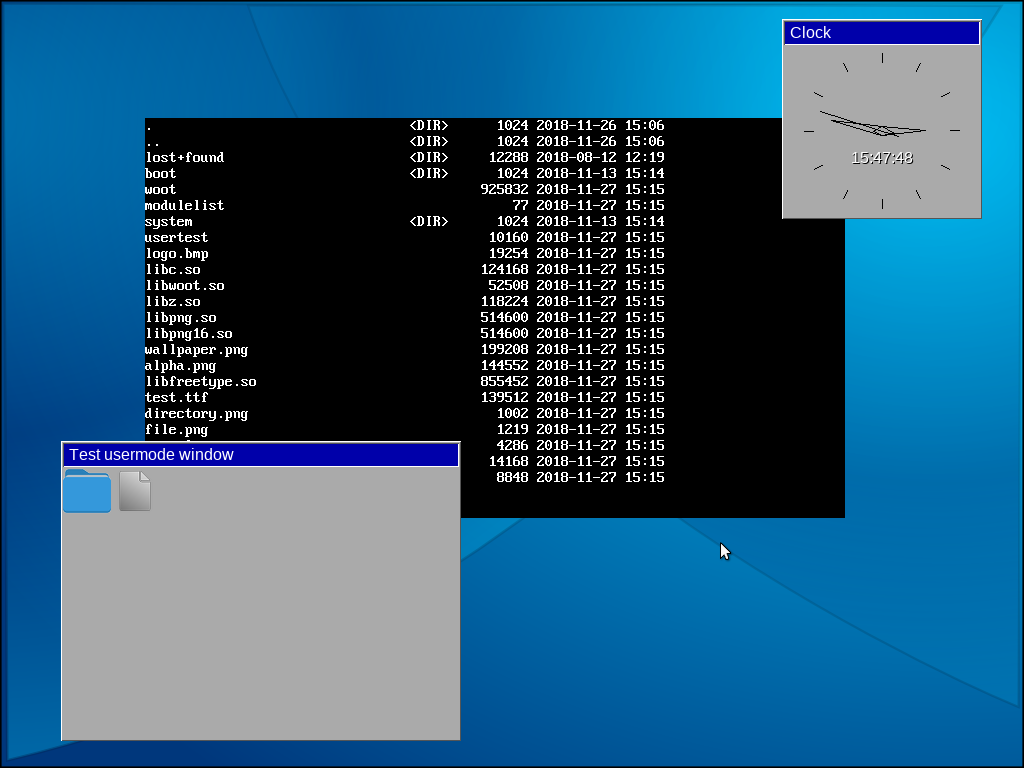
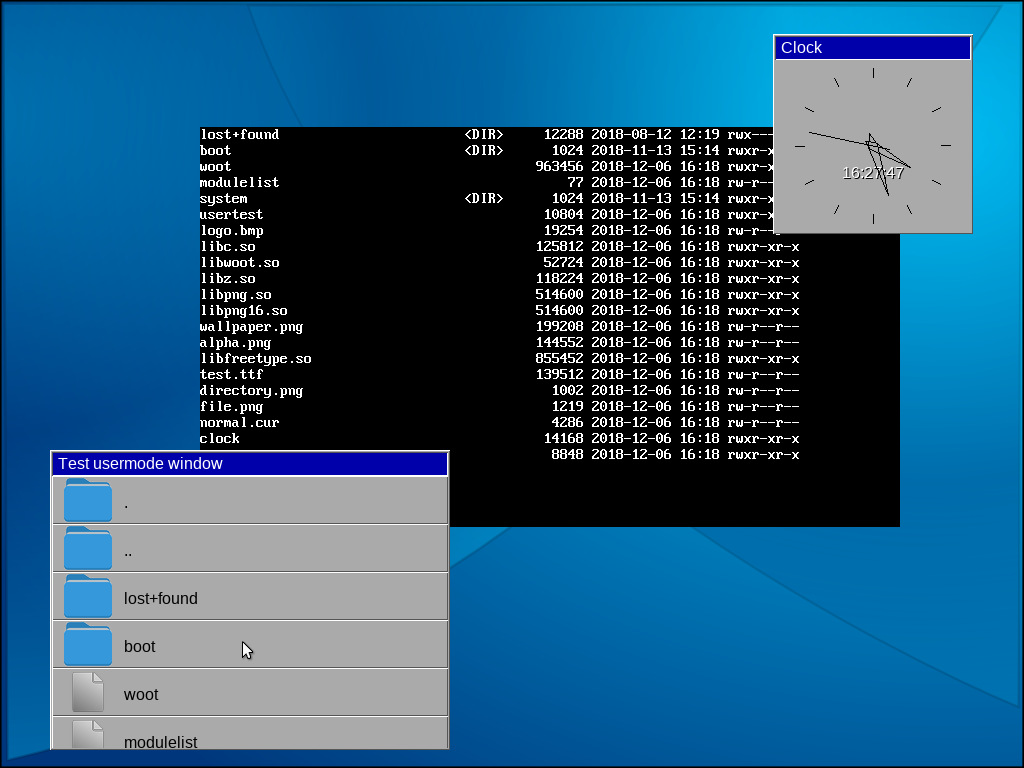
fixed backwards blitting bug and updated screenshot

diff --git a/usertest/main.c b/usertest/main.c
@@ -12,6 +12,7 @@
 #include FT_FREETYPE_H
 #include FT_ERRORS_H
 
+#include <woot/font.h>
 #include <woot/pixmap.h>
 #include <woot/wm.h>
 #include <zlib.h>
@@ -62,18 +63,25 @@ int main(int argc, char *argv[])
             malloc_stats();
         else if(!strcmp(_argv[0], "dir"))
         {
-            /*pmAlphaBlit(spm, dirIcon, 0, 0, 0, 0, dirIcon->Width, dirIcon->Height);
-            pmAlphaBlit(spm, fileIcon, 0, 0, 48, 0, fileIcon->Width, fileIcon->Height);
-            wmInvalidateRectangle(wnd, &wnd->ClientRectangle);
-            wmUpdateWindow(wnd);*/
             char *name = _argc >= 2 ? _argv[1] : ".";
             DIR *dir = opendir(name);
             if(!dir) printf("couldn't open directory %s\n", name);
             else
             {
                 struct dirent *de;
+                int i = 0;
                 while((de = readdir(dir)))
-                    printf("%s\n", de->d_name);
+                {
+                    int isDir = de->d_type == DT_DIR;
+                    struct pmPixMap *icon = isDir ? dirIcon : fileIcon;
+                    pmAlphaBlit(spm, icon, 0, 0, 12, i * 48, icon->Width, icon->Height);
+                    fntDrawString(wmGetDefaultFont(), spm, 72, i * 48 + 32, de->d_name, pmColorBlack);
+                    pmDrawFrame(spm, 0, i * 48, spm->Width, 48, 0);
+                    //printf("%-16s %s\n", de->d_name, isDir ? "<DIR>" : "     ");
+                    ++i;
+                }
+                wmInvalidateRectangle(wnd, &wnd->ClientRectangle);
+                wmUpdateWindow(wnd);
             }
         }
         else if(!strcmp(_argv[0], "date"))

diff --git a/libwoot/pixmap.c b/libwoot/pixmap.c
@@ -471,9 +471,11 @@ void pmBlit(struct pmPixMap *dst, struct pmPixMap *src, int sx, int sy, int x, i
     }
     else
     {   // backward
-        for(int Y = y2 - 1, sY = sy2 - 1; Y >= y && sY >= sy; --Y, --sY)
+        int sx2b = sx + w + (x2 - (x + w));
+        int sy2b = sy + h + (y2 - (y + h));
+        for(int Y = y2 - 1, sY = sy2b - 1; Y >= y && sY >= sy; --Y, --sY)
         {
-            for(int X = x2 - 1, sX = sx2 - 1; X >= x && sX >= sx; --X, --sX)
+            for(int X = x2 - 1, sX = sx2b - 1; X >= x && sX >= sx; --X, --sX)
                 pmSetPixel(dst, X, Y, pmGetPixel(src, sX, sY));
         }
     }
@@ -554,9 +556,11 @@ void pmAlphaBlit(struct pmPixMap *dst, struct pmPixMap *src, int sx, int sy, int
     }
     else
     {   // backward
-        for(int Y = y2 - 1, sY = sy2 - 1; Y >= y && sY >= sy; --Y, --sY)
+        int sx2b = sx + w + (x2 - (x + w));
+        int sy2b = sy + h + (y2 - (y + h));
+        for(int Y = y2 - 1, sY = sy2b - 1; Y >= y && sY >= sy; --Y, --sY)
         {
-            for(int X = x2 - 1, sX = sx2 - 1; X >= x && sX >= sx; --X, --sX)
+            for(int X = x2 - 1, sX = sx2b - 1; X >= x && sX >= sx; --X, --sX)
                 pmSetPixel(dst, X, Y, pmBlendPixel(pmGetPixel(dst, X, Y), pmGetPixel(src, sX, sY)));
         }
     }

diff --git a/kernel/syscalls.cpp b/kernel/syscalls.cpp
@@ -23,9 +23,20 @@
 #include <../libc/include/time.h>
 
 #define NAME_MAX 255
+
+#define DT_UNKNOWN 0
+#define DT_REG 1
+#define DT_DIR 2
+#define DT_FIFO 3
+#define DT_SOCK 4
+#define DT_CHR 5
+#define DT_BLK 6
+#define DT_LNK 7
+
 struct dirent
 {
     int d_ino;
+    unsigned char d_type;
     char d_name[NAME_MAX + 1];
 };
 
@@ -242,10 +253,12 @@ long SysCalls::sys_readdir(long *args) // 89
     if(!f) return -EBADF;
     struct dirent *dent = (struct dirent *)args[2];
     dent->d_ino = -1;
+    dent->d_type = DT_UNKNOWN;
     dent->d_name[0] = 0;
     DirectoryEntry *de = f->ReadDir();
     if(!de) return 0;
     dent->d_ino = de->INode;
+    dent->d_type = S_ISDIR(de->Mode) ? DT_DIR : DT_REG;
     strncpy(dent->d_name, de->Name, sizeof(dent->d_name));
     delete de;
     return 0;

diff --git a/kernel/pixmap.cpp b/kernel/pixmap.cpp
@@ -495,9 +495,11 @@ void PixMap::AlphaBlit(PixMap *src, int sx, int sy, int x, int y, int w, int h)
     }
     else
     {   // backward
-        for(int Y = y2 - 1, sY = sy2 - 1; Y >= y && sY >= sy; --Y, --sY)
+        int sx2b = sx + w + (x2 - (x + w));
+        int sy2b = sy + h + (y2 - (y + h));
+        for(int Y = y2 - 1, sY = sy2b - 1; Y >= y && sY >= sy; --Y, --sY)
         {
-            for(int X = x2 - 1, sX = sx2 - 1; X >= x && sX >= sx; --X, --sX)
+            for(int X = x2 - 1, sX = sx2b - 1; X >= x && sX >= sx; --X, --sX)
                 SetPixel(X, Y, GetPixel(X, Y).Blend(src->GetPixel(sX, sY)));
         }
     }

diff --git a/libc/include/dirent.h b/libc/include/dirent.h
@@ -4,6 +4,17 @@
 #include <limits.h>
 #include <sys/types.h>
 
+#define _DIRENT_HAVE_D_TYPE 1
+
+#define DT_UNKNOWN 0
+#define DT_REG 1
+#define DT_DIR 2
+#define DT_FIFO 3
+#define DT_SOCK 4
+#define DT_CHR 5
+#define DT_BLK 6
+#define DT_LNK 7
+
 #ifdef __cplusplus
 extern "C" {
 #endif // __cplusplus
@@ -13,6 +24,7 @@ typedef struct DIR DIR;
 struct dirent
 {
     ino_t d_ino;
+    unsigned char d_type;
     char d_name[NAME_MAX + 1];
 };
 
